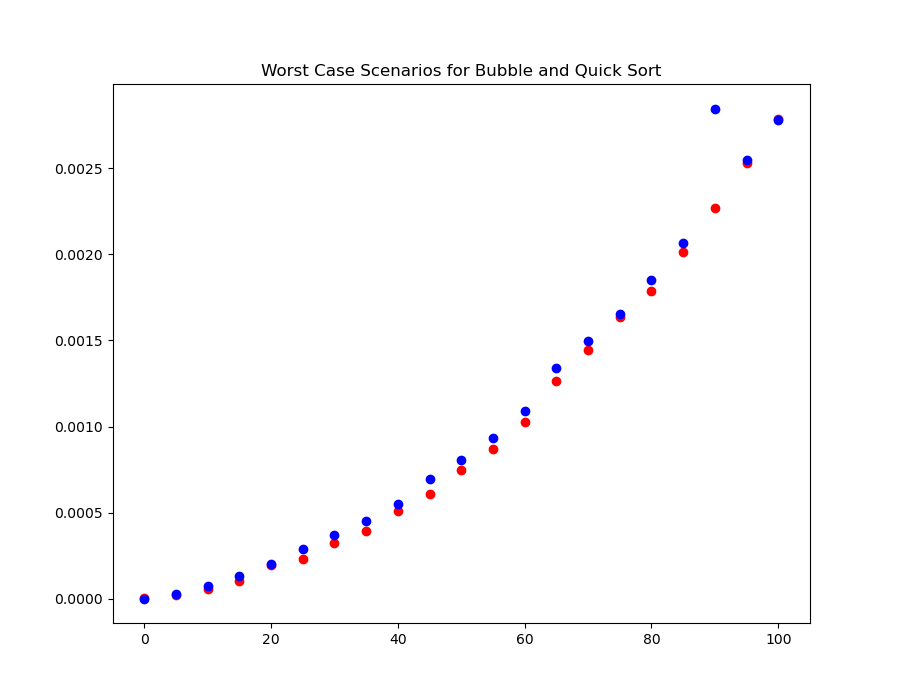
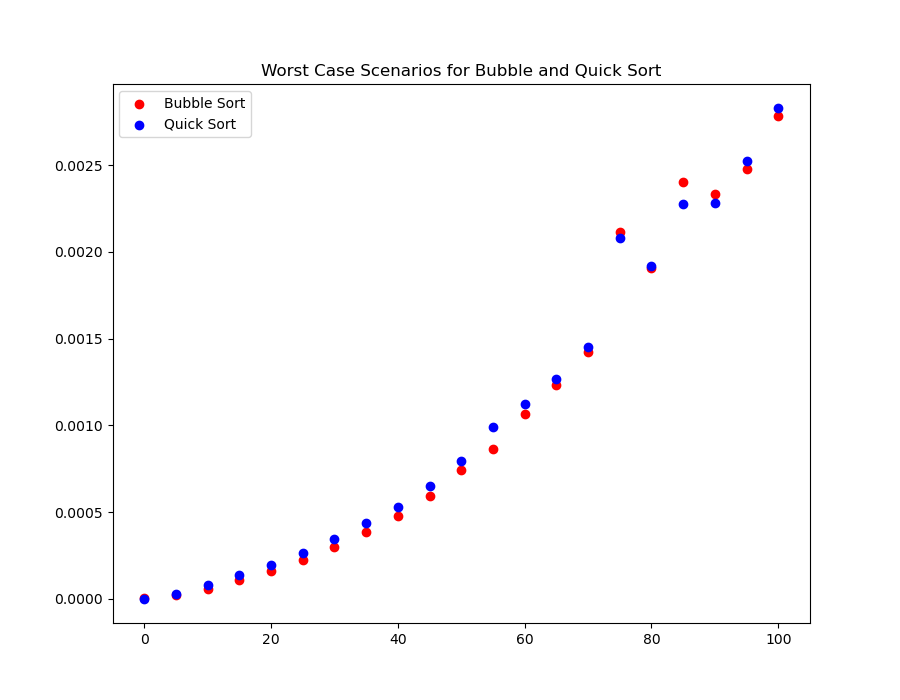
Plot formatting

diff --git a/ex2.py b/ex2.py
@@ -103,19 +103,22 @@ for list_length in list_lengths:
     quicksort_worst_times.append(quicksort_worst_tm / 10)
 
 plt.figure(figsize=(9, 7))
-plt.scatter(range(0, 105, 5), bubble_best_times, color='r')
-plt.scatter(range(0, 105, 5), quicksort_best_times, color='b')
+plt.scatter(range(0, 105, 5), bubble_best_times, color='r', label="Bubble Sort")
+plt.scatter(range(0, 105, 5), quicksort_best_times, color='b', label="Quick Sort")
 plt.title("Best Case Scenarios for Bubble and Quick Sort")
+plt.legend()
 plt.savefig("ex2_best.png")
 
 plt.figure(figsize=(9, 7))
-plt.scatter(range(0, 105, 5), bubble_avg_times, color='r')
-plt.scatter(range(0, 105, 5), quicksort_avg_times, color='b')
+plt.scatter(range(0, 105, 5), bubble_avg_times, color='r', label="Bubble Sort")
+plt.scatter(range(0, 105, 5), quicksort_avg_times, color='b', label="Quick Sort")
 plt.title("Average Case Scenarios for Bubble and Quick Sort")
+plt.legend()
 plt.savefig("ex2_avg.png")
 
 plt.figure(figsize=(9, 7))
-plt.scatter(range(0, 105, 5), bubble_worst_times, color='r')
-plt.scatter(range(0, 105, 5), quicksort_worst_times, color='b')
+plt.scatter(range(0, 105, 5), bubble_worst_times, color='r', label="Bubble Sort")
+plt.scatter(range(0, 105, 5), quicksort_worst_times, color='b', label="Quick Sort")
 plt.title("Worst Case Scenarios for Bubble and Quick Sort")
+plt.legend()
 plt.savefig("ex2_worst.png")
